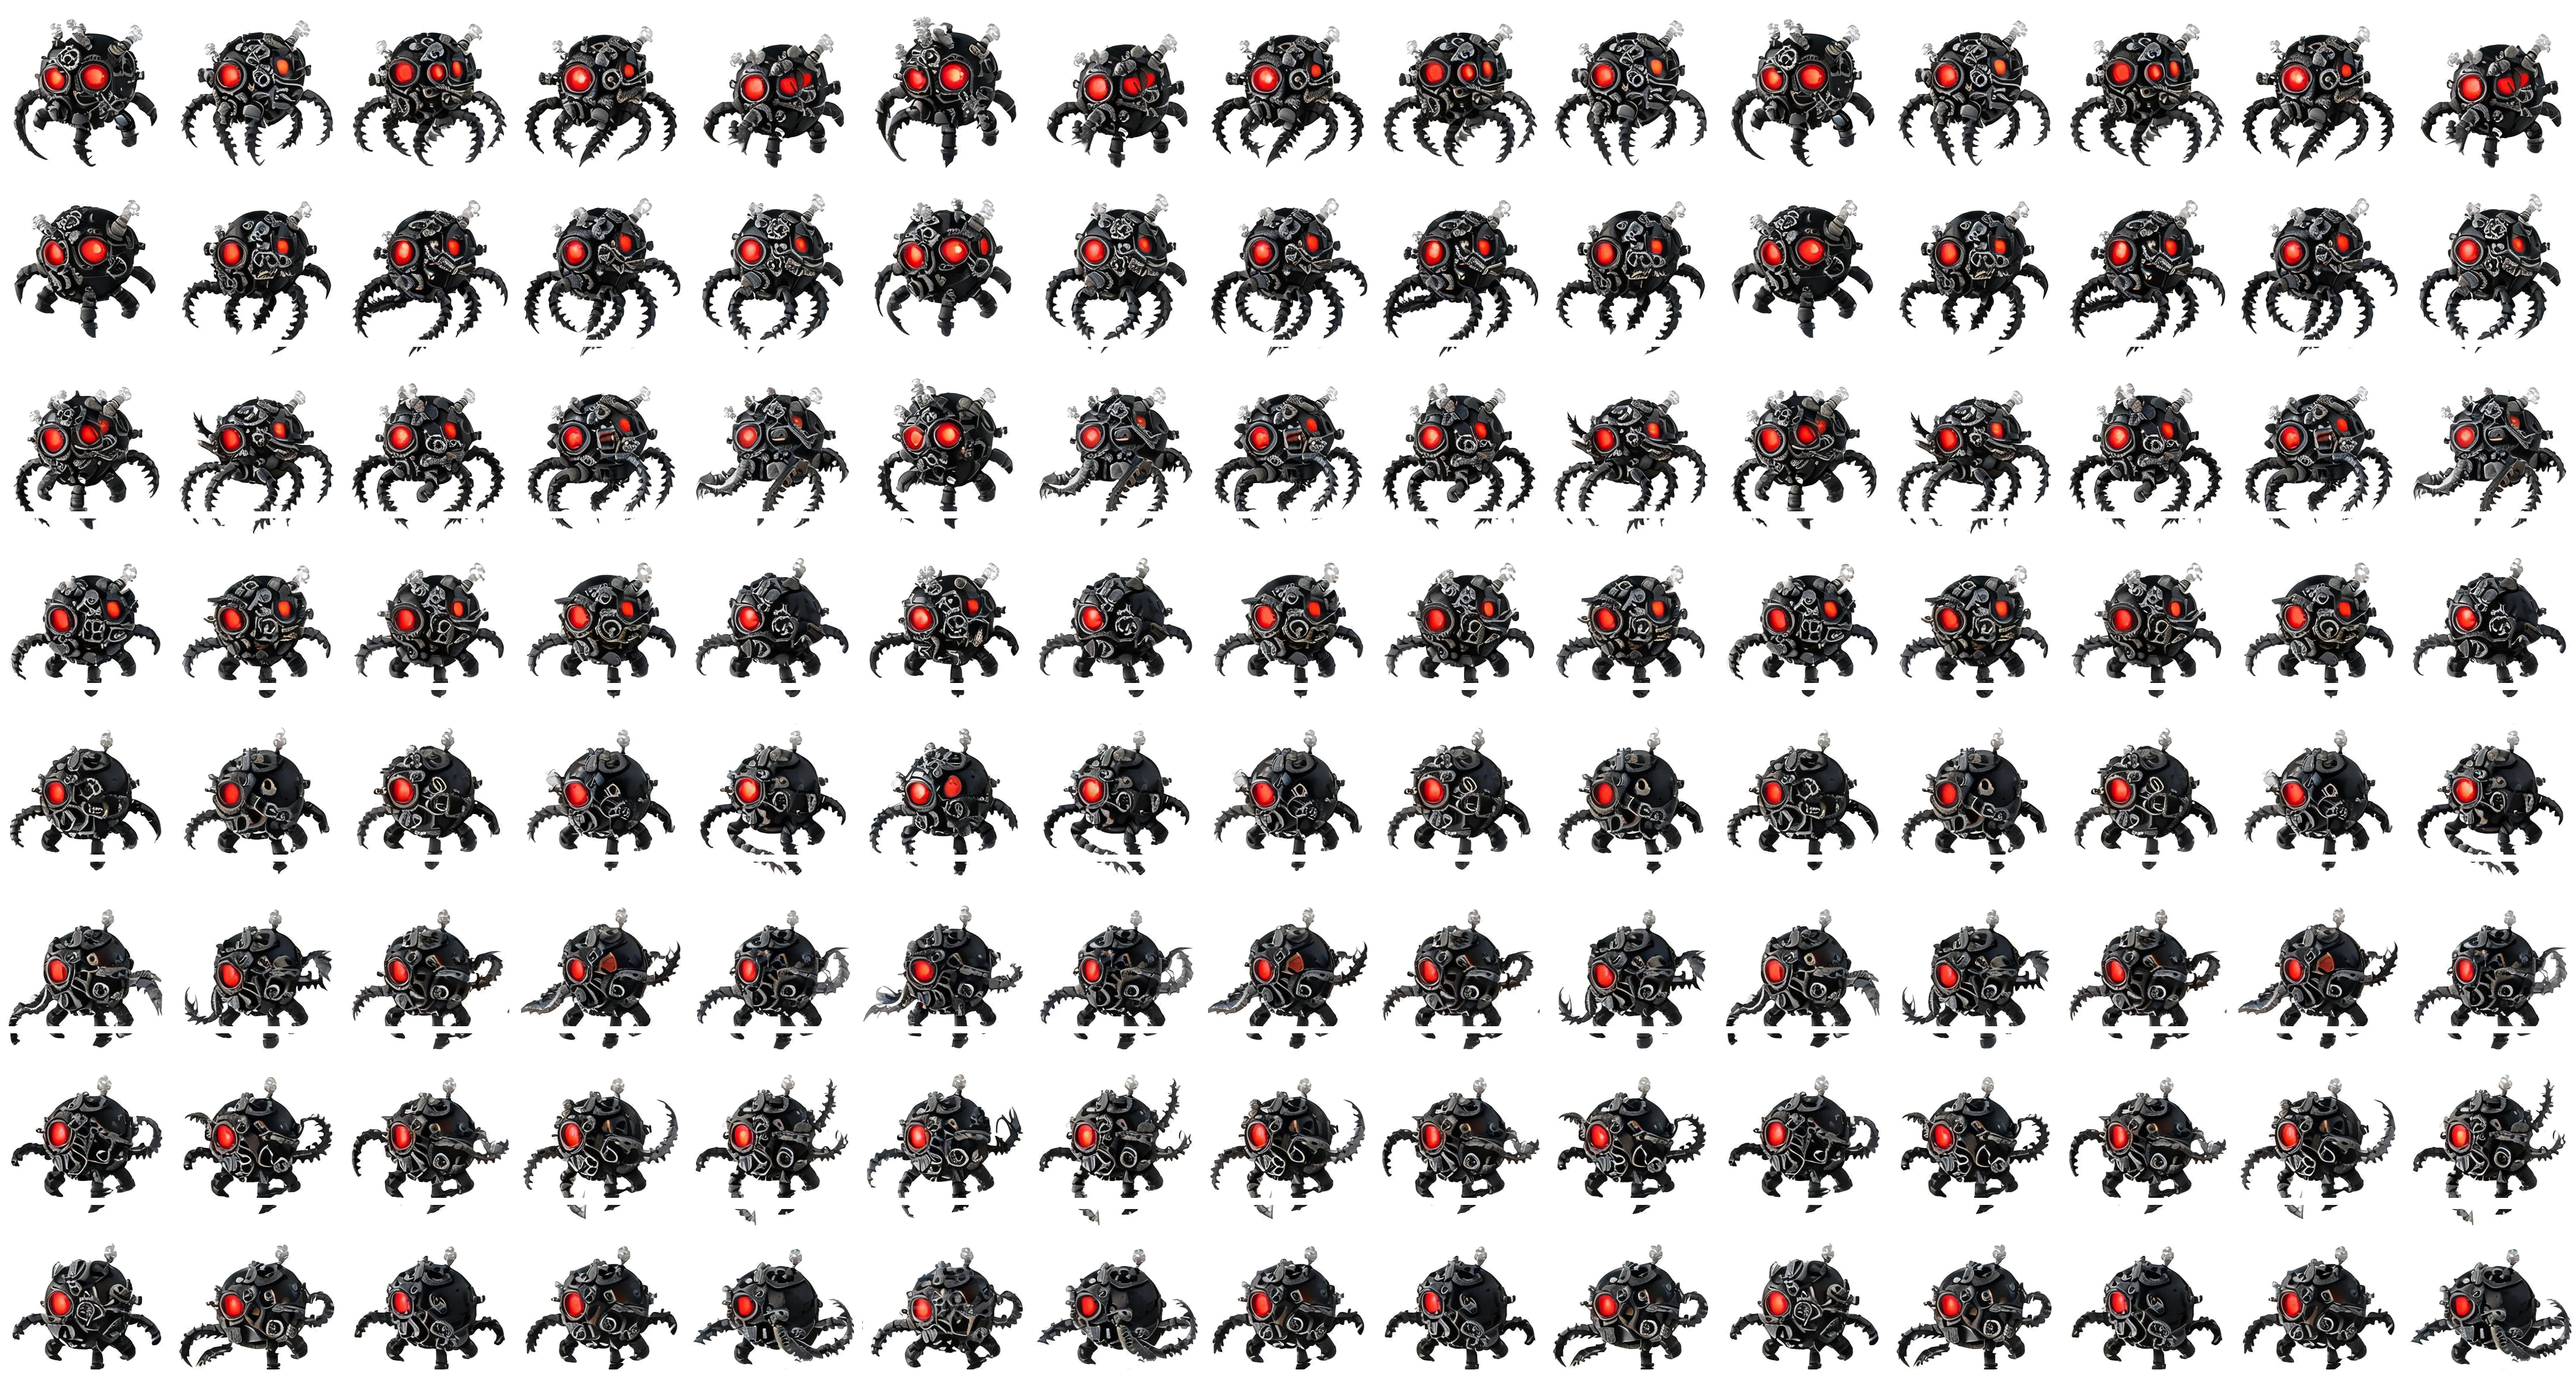
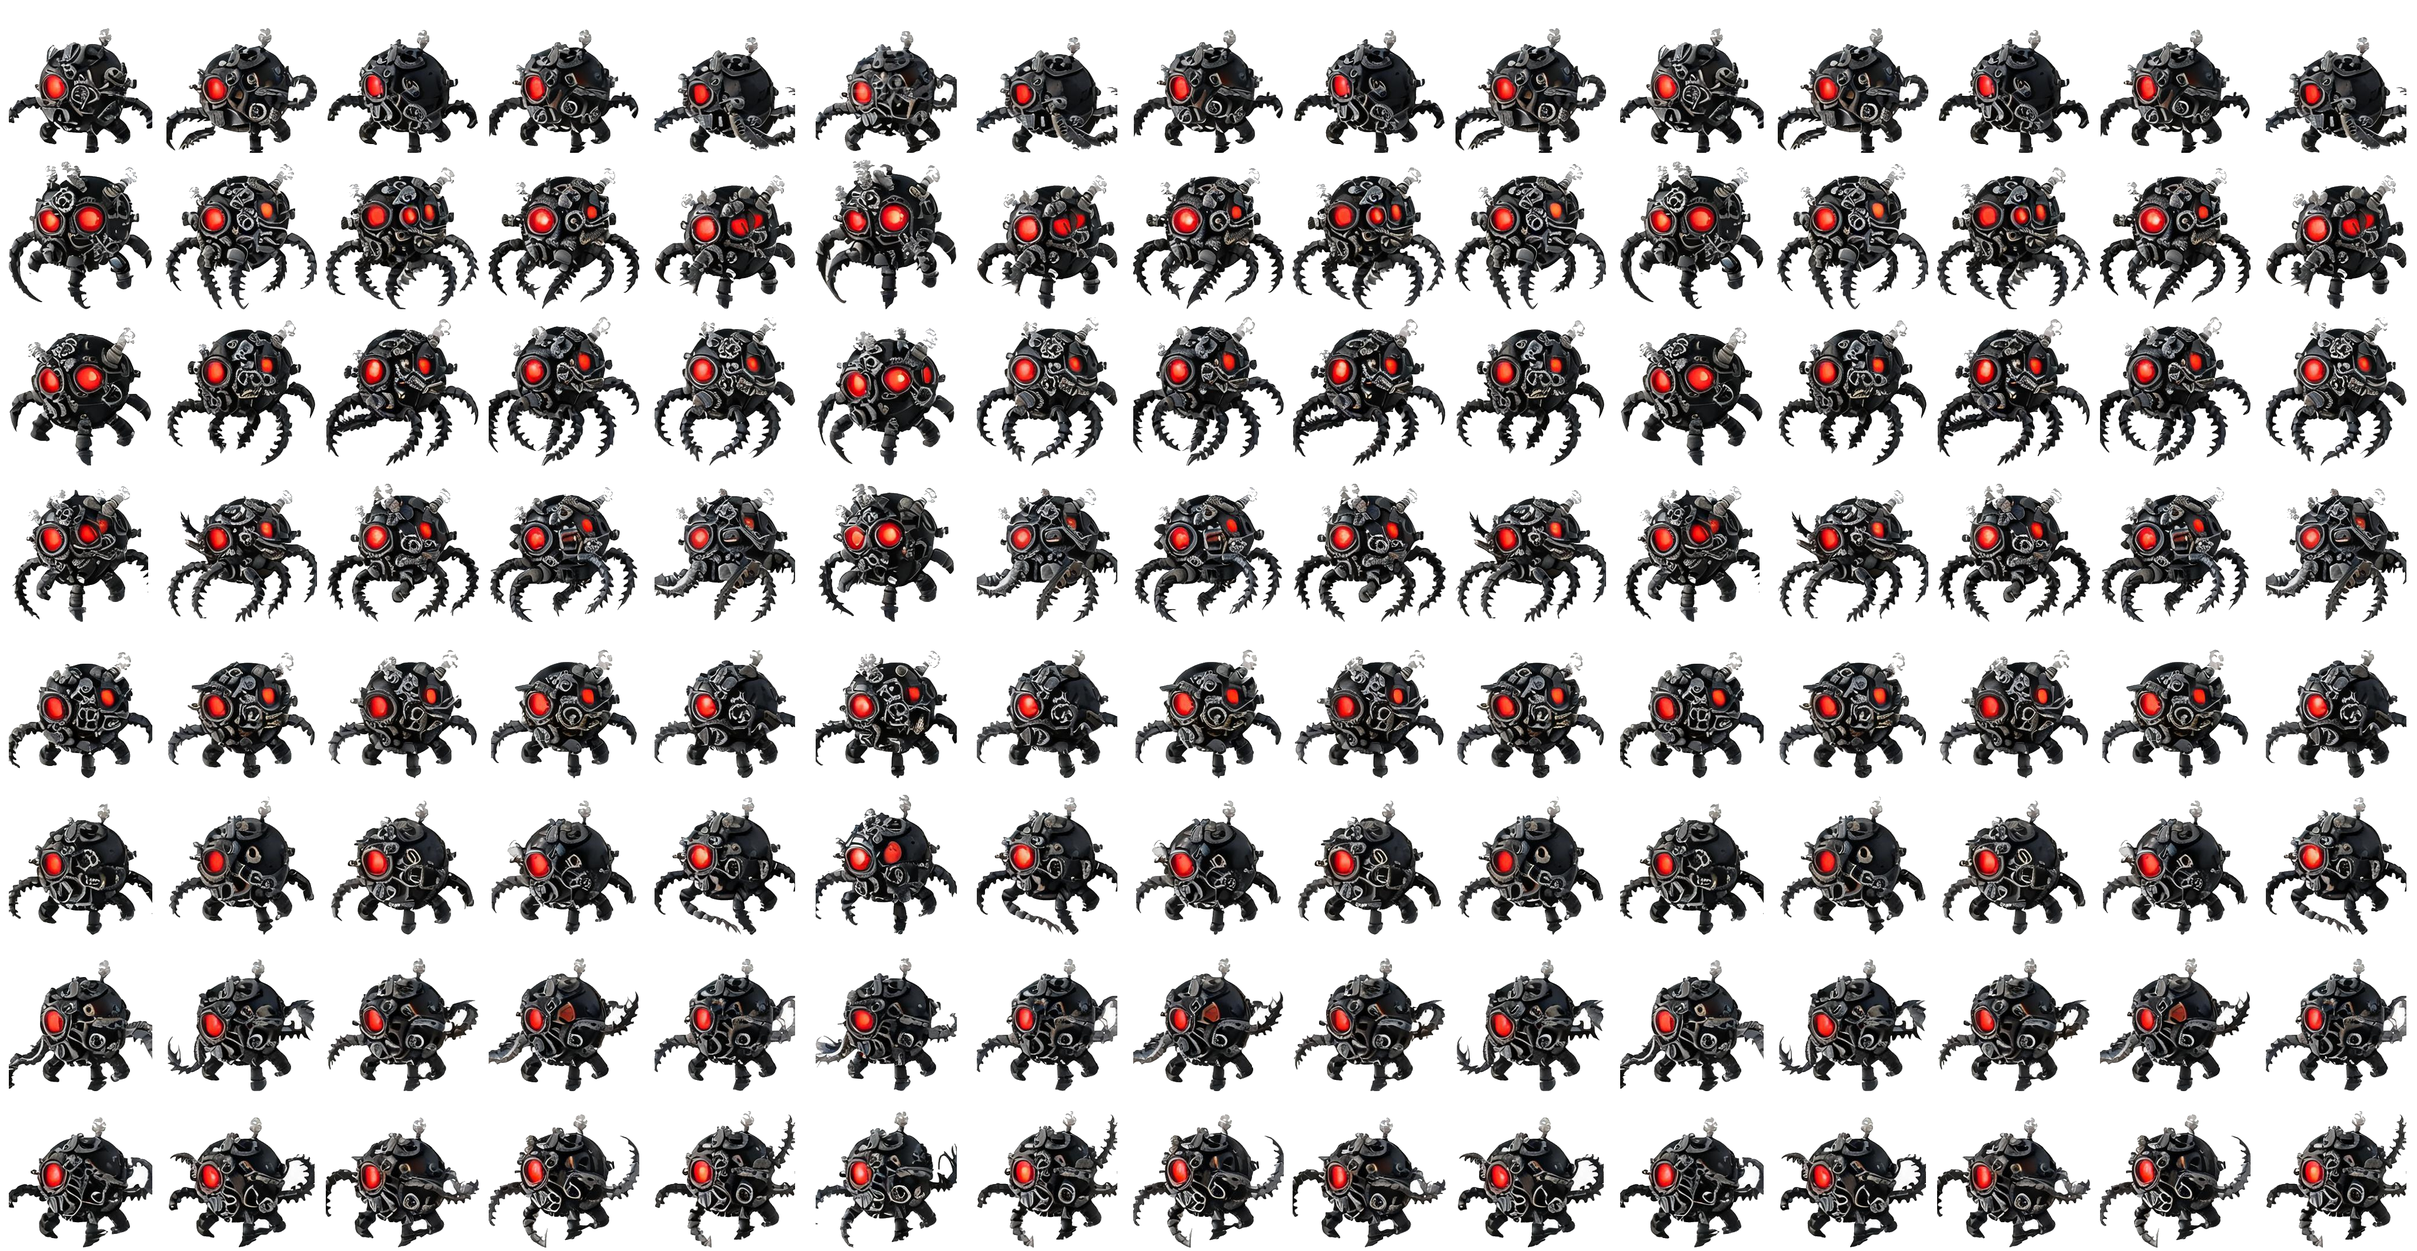
fix: 精灵表重做(投影检测真实边界+连通域抠图+方向映射+镜像补全8方向)
- 源图角色超出280px单元格导致裁切丢失,改用垂直/水平投影检测真实行列边界
- player只有6方向,通过镜像LEFT->RIGHT/DOWN-LEFT->DOWN-RIGHT补全8方向
- enemy2行顺序与标准不一致,重新映射到DOWN/DOWN-LEFT/LEFT/UP-LEFT/UP/UP-RIGHT/RIGHT/DOWN-RIGHT
- 白底抠图改用连通域分析(只移除与边界连通的背景),消除白边(37%->0.1%)
- 所有输出单元格验证无触边,角色细节完整无缺失

diff --git a/tools/build_sprites.py b/tools/build_sprites.py
@@ -1,18 +1,14 @@
 #!/usr/bin/env python3
 """
-精灵表后处理脚本 —— 符合行业标准的 8 方向 × 15 帧精灵表生成
+精灵表后处理脚本 v2 —— 自动检测行列边界 + 方向映射 + 镜像补全
 
-输入: assets/*_1.jpg (6 列 × 8 行, 白底 AI 生成图)
-输出: *.png (15 列 × 8 行, 透明背景, 等大单元格, 底部对齐)
+修复问题:
+- 源图角色超出 280px 单元格导致裁切丢失 (改用投影检测真实边界)
+- player 只有 6 方向, 通过镜像补全 8 方向
+- enemy2 行顺序与标准顺序不一致, 重新映射
 
-处理步骤:
-1. 按 6×8 网格切分源图
-2. 抠除白底 -> 透明 (alpha 通道)
-3. 计算所有单元格内容包围盒, 取最大宽高 + 留白作为统一单元格尺寸
-4. 8 个方向各自做 ping-pong 扩展: 6 帧 -> 15 帧
-   序列: 0,1,2,3,4,5,4,3,2,1,0,1,2,3,4  (平滑循环, 无跳变)
-5. 每帧底部对齐 (脚掌在同一水平线), 水平居中
-6. 输出 15×8 的 PNG
+标准 8 方向行顺序 (从上到下):
+  DOWN, DOWN-LEFT, LEFT, UP-LEFT, UP, UP-RIGHT, RIGHT, DOWN-RIGHT
 """
 
 import sys
@@ -20,38 +16,86 @@ from pathlib import Path
 import numpy as np
 from PIL import Image
 
-# 源图网格
-SRC_COLS = 6
-SRC_ROWS = 8
-
-# 输出网格 (15 帧 × 8 方向)
-OUT_COLS = 15
-OUT_ROWS = 8
-
-# ping-pong 序列: 6 帧扩展为 15 帧
+OUT_COLS = 15  # 15 帧
+OUT_ROWS = 8   # 8 方向
 PING_PONG = [0, 1, 2, 3, 4, 5, 4, 3, 2, 1, 0, 1, 2, 3, 4]
 
-# 抠图: 认为接近白色的像素为背景
 BG_THRESHOLD = 240  # RGB 三通道都 >= 240 视为白底
-PADDING = 6         # 统一单元格额外留白 (像素)
+PADDING = 6         # 统一单元格留白
+
+
+def detect_bands(proj: np.ndarray, gap_thresh: int = 20, min_h: int = 50):
+    """从投影数组中检测内容带 (返回 [(start, end), ...])"""
+    bands = []
+    in_fg = False
+    start = 0
+    for i in range(len(proj)):
+        if proj[i] > gap_thresh and not in_fg:
+            in_fg = True
+            start = i
+        elif proj[i] <= gap_thresh and in_fg:
+            in_fg = False
+            if i - start >= min_h:
+                bands.append((start, i))
+    if in_fg and len(proj) - start >= min_h:
+        bands.append((start, len(proj)))
+    return bands
+
+
+def detect_cols(hproj: np.ndarray, gap_thresh: int = 10, min_w: int = 80):
+    """检测列边界, 过滤噪声小段"""
+    segments = detect_bands(hproj, gap_thresh, min_w)
+    return segments
 
 
 def remove_white(cell_rgb: np.ndarray) -> np.ndarray:
-    """白底抠图, 返回 RGBA"""
+    """白底抠图 -> RGBA
+    使用连通域分析从边界出发, 只移除与边界连通的背景区域,
+    避免误删角色内部的白色/浅色细节 (如眼睛、牙齿、高光)
+    """
+    from scipy.ndimage import label, binary_dilation
     h, w = cell_rgb.shape[:2]
     alpha = np.ones((h, w), dtype=np.uint8) * 255
-    # 三通道都接近白色 -> 透明
-    bg_mask = (cell_rgb[:, :, 0] >= BG_THRESHOLD) & \
-              (cell_rgb[:, :, 1] >= BG_THRESHOLD) & \
-              (cell_rgb[:, :, 2] >= BG_THRESHOLD)
+
+    # 潜在背景: 三通道都较亮的像素
+    bg_like = (cell_rgb[:, :, 0] >= 200) & \
+              (cell_rgb[:, :, 1] >= 200) & \
+              (cell_rgb[:, :, 2] >= 200)
+
+    # 连通域标记
+    labeled, n = label(bg_like)
+    # 找出所有与边界接触的连通域 -> 这些是背景
+    border_labels = set()
+    border_labels.update(labeled[0, :])        # 上边
+    border_labels.update(labeled[-1, :])       # 下边
+    border_labels.update(labeled[:, 0])        # 左边
+    border_labels.update(labeled[:, -1])       # 右边
+    border_labels.discard(0)  # 0 是非背景
+
+    bg_mask = np.isin(labeled, list(border_labels))
     alpha[bg_mask] = 0
-    # 边缘半透明羽化, 避免锯齿
-    rgba = np.dstack([cell_rgb, alpha])
-    return rgba
+
+    # 边缘羽化: 对紧邻透明区的不透明像素, 按亮度降低 alpha
+    transparent = alpha == 0
+    dilated = binary_dilation(transparent, iterations=1)
+    edge_mask = dilated & ~transparent
+
+    if edge_mask.any():
+        ys, xs = np.where(edge_mask)
+        brightness = (cell_rgb[ys, xs, 0].astype(np.float32) +
+                      cell_rgb[ys, xs, 1].astype(np.float32) +
+                      cell_rgb[ys, xs, 2].astype(np.float32)) / 3.0
+        # 越接近白色, alpha 越低 (羽化过渡)
+        bright_mask = brightness >= 200
+        if bright_mask.any():
+            t = (brightness[bright_mask] - 200) / 55.0  # 200->0, 255->1
+            alpha_vals = np.maximum(0, (255 * (1 - t * 0.7)).astype(np.uint8))
+            alpha[ys[bright_mask], xs[bright_mask]] = alpha_vals
+
+    return np.dstack([cell_rgb, alpha])
 
 
 def content_bbox(rgba: np.ndarray):
-    """返回非透明区域的包围盒 (x0,y0,x1,y1) 或 None"""
     alpha = rgba[:, :, 3]
     ys, xs = np.where(alpha > 0)
     if len(xs) == 0:
@@ -59,98 +103,177 @@ def content_bbox(rgba: np.ndarray):
     return int(xs.min()), int(ys.min()), int(xs.max()) + 1, int(ys.max()) + 1
 
 
-def process(src_path: Path, out_path: Path):
+def paste_alpha(dst: np.ndarray, src: np.ndarray, x: int, y: int):
+    """按 alpha 混合粘贴 src 到 dst 的 (x,y)"""
+    sh, sw = src.shape[:2]
+    dh, dw = dst.shape[:2]
+    if x < 0 or y < 0 or x + sw > dw or y + sh > dh:
+        return
+    dst_slice = dst[y:y + sh, x:x + sw]
+    src_a = src[:, :, 3:4].astype(np.float32) / 255.0
+    new_rgb = (src[:, :, :3].astype(np.float32) * src_a +
+               dst_slice[:, :, :3].astype(np.float32) * (1 - src_a))
+    dst_slice[:, :, :3] = new_rgb.astype(np.uint8)
+    dst_slice[:, :, 3] = np.maximum(dst_slice[:, :, 3], src[:, :, 3])
+
+
+def process(src_path: Path, out_path: Path, dir_map: list, mirror_map: dict = None):
+    """
+    dir_map: 长度为 OUT_ROWS 的列表, dir_map[out_row] = src_row_index
+             表示输出第 out_row 行使用源图第 src_row 行的内容
+    mirror_map: {out_row: True} 表示该行需要水平镜像
+    """
     print(f"[处理] {src_path.name}")
     src = Image.open(src_path).convert("RGB")
-    W, H = src.size
-    cw, ch = W // SRC_COLS, H // SRC_ROWS
-    assert W % SRC_COLS == 0 and H % SRC_ROWS == 0, \
-        f"源图尺寸 {W}x{H} 不能被 {SRC_COLS}x{SRC_ROWS} 整除"
-
     arr = np.array(src)
+    H, W = arr.shape[:2]
 
-    # 1. 切分 + 抠图
-    cells = []  # [row][col] = RGBA ndarray
+    bg = (arr[:, :, 0] >= BG_THRESHOLD) & (arr[:, :, 1] >= BG_THRESHOLD) & (arr[:, :, 2] >= BG_THRESHOLD)
+    fg = ~bg
+
+    # 1. 检测行边界 (垂直投影)
+    vproj = fg.sum(axis=1)
+    row_bands = detect_bands(vproj)
+    print(f"  检测到 {len(row_bands)} 行: {[(s, e) for s, e in row_bands]}")
+
+    # 2. 检测列边界 (使用内容最多的那一行的水平投影, 避免多行列合并)
+    best_row_idx = 0
+    best_count = 0
+    for ri, (rys, rye) in enumerate(row_bands):
+        cnt = fg[rys:rye, :].sum()
+        if cnt > best_count:
+            best_count = cnt
+            best_row_idx = ri
+    rys, rye = row_bands[best_row_idx]
+    hproj = fg[rys:rye, :].sum(axis=0)
+    col_bands = detect_cols(hproj)
+    if len(col_bands) < 4:
+        # 退而求其次: 用所有行的水平投影
+        hproj = fg.sum(axis=0)
+        col_bands = detect_cols(hproj)
+    print(f"  检测到 {len(col_bands)} 列: {[(s, e) for s, e in col_bands]}")
+
+    n_src_rows = len(row_bands)
+    n_src_cols = len(col_bands)
+
+    # 3. 提取所有单元格 + 抠图 + bbox
+    cells = []  # cells[src_row][src_col] = rgba
     bboxes = []
-    for r in range(SRC_ROWS):
+    for ri, (rys, rye) in enumerate(row_bands):
         row_cells = []
-        for c in range(SRC_COLS):
-            cell_rgb = arr[r * ch:(r + 1) * ch, c * cw:(c + 1) * cw]
+        for ci, (cxs, cxe) in enumerate(col_bands):
+            cell_rgb = arr[rys:rye, cxs:cxe]
             rgba = remove_white(cell_rgb)
             row_cells.append(rgba)
-            bbox = content_bbox(rgba)
-            bboxes.append(bbox)
+            bboxes.append(content_bbox(rgba))
         cells.append(row_cells)
 
-    # 2. 计算统一单元格尺寸
+    # 4. 计算统一单元格尺寸 (取所有内容 bbox 的最大宽高 + padding)
     cw_list = [b[2] - b[0] for b in bboxes if b]
     ch_list = [b[3] - b[1] for b in bboxes if b]
     max_cw = max(cw_list) + PADDING * 2
     max_ch = max(ch_list) + PADDING * 2
-    # 取偶数, 避免缩放亚像素
     max_cw = (max_cw + 1) // 2 * 2
     max_ch = (max_ch + 1) // 2 * 2
-    print(f"  源单元格 {cw}x{ch} -> 统一单元格 {max_cw}x{max_ch} (内容最大 {max(cw_list)}x{max(ch_list)})")
+    print(f"  统一单元格: {max_cw}x{max_ch} (内容最大 {max(cw_list)}x{max(ch_list)})")
 
-    # 3. 构建输出图
+    # 5. 构建输出图
     out_w = max_cw * OUT_COLS
     out_h = max_ch * OUT_ROWS
     out = Image.new("RGBA", (out_w, out_h), (0, 0, 0, 0))
     out_arr = np.array(out)
 
-    for r in range(OUT_ROWS):
-        src_row = r % SRC_ROWS
+    for out_row in range(OUT_ROWS):
+        src_row = dir_map[out_row]
+        need_mirror = mirror_map and mirror_map.get(out_row, False)
+
         for oc in range(OUT_COLS):
             sc = PING_PONG[oc]
+            if sc >= n_src_cols:
+                continue
             rgba = cells[src_row][sc]
-            bbox = bboxes[src_row * SRC_COLS + sc]
+            bbox = bboxes[src_row * n_src_cols + sc]
             if bbox is None:
                 continue
+
             x0, y0, x1, y1 = bbox
             content = rgba[y0:y1, x0:x1]
+
+            # 水平镜像
+            if need_mirror:
+                content = np.flip(content, axis=1).copy()
+
             ch_c = y1 - y0
             cw_c = x1 - x0
 
-            # 底部对齐 (脚掌在单元格底部), 水平居中
+            # 底部对齐 + 水平居中
             dest_x0 = (max_cw - cw_c) // 2
-            dest_y0 = max_ch - PADDING - ch_c  # 底部留 PADDING
-
+            dest_y0 = max_ch - PADDING - ch_c
             if dest_x0 < 0:
                 dest_x0 = 0
             if dest_y0 < 0:
                 dest_y0 = 0
 
             ox = oc * max_cw
-            oy = r * max_ch
-            # 按 alpha 混合粘贴
-            dst_slice = out_arr[oy + dest_y0:oy + dest_y0 + ch_c,
-                                ox + dest_x0:ox + dest_x0 + cw_c]
-            src_a = content[:, :, 3:4].astype(np.float32) / 255.0
-            dst_rgb = dst_slice[:, :, :3].astype(np.float32)
-            new_rgb = (content[:, :, :3].astype(np.float32) * src_a +
-                       dst_rgb * (1 - src_a))
-            dst_slice[:, :, :3] = new_rgb.astype(np.uint8)
-            dst_slice[:, :, 3] = np.maximum(dst_slice[:, :, 3], content[:, :, 3])
+            oy = out_row * max_ch
+            paste_alpha(out_arr, content, ox + dest_x0, oy + dest_y0)
 
     out_img = Image.fromarray(out_arr, "RGBA")
     out_img.save(out_path, "PNG")
-    print(f"  输出 {out_path.name}: {out_w}x{out_h} ({OUT_COLS}x{OUT_ROWS}, cell {max_cw}x{max_ch})")
+    print(f"  输出 {out_path.name}: {out_w}x{out_h} (cell {max_cw}x{max_ch})")
+
+    # 6. 验证: 检查输出单元格是否触边
+    print("  验证裁剪边界:")
+    touch_any = False
+    for r in range(OUT_ROWS):
+        for c in range(OUT_COLS):
+            cell = out_arr[r * max_ch:(r + 1) * max_ch, c * max_cw:(c + 1) * max_cw]
+            bbox = content_bbox(cell)
+            if bbox is None:
+                continue
+            x0, y0, x1, y1 = bbox
+            touches = []
+            if x0 <= 1: touches.append('L')
+            if x1 >= max_cw - 2: touches.append('R')
+            if y0 <= 1: touches.append('T')
+            if y1 >= max_ch - 2: touches.append('B')
+            if touches:
+                touch_any = True
+                print(f"    r{r}c{c}: 触边 {''.join(touches)} bbox=({x0},{y0},{x1},{y1})")
+    if not touch_any:
+        print("    全部 OK, 无触边")
 
 
 def main():
     assets = Path("assets")
+
+    # Player walk: 6 rows -> 8 directions (mirror LEFT->RIGHT, DOWN-LEFT->DOWN-RIGHT)
+    # Source rows: 0=DOWN, 1=DOWN-LEFT, 2=LEFT, 3=UP-LEFT, 4=UP, 5=UP-RIGHT
+    # Output rows: 0=DOWN, 1=DOWN-LEFT, 2=LEFT, 3=UP-LEFT, 4=UP, 5=UP-RIGHT, 6=RIGHT, 7=DOWN-RIGHT
+    player_dir_map = [0, 1, 2, 3, 4, 5, 2, 1]
+    player_mirror = {6: True, 7: True}  # RIGHT=mirror(LEFT), DOWN-RIGHT=mirror(DOWN-LEFT)
+
+    # Enemy1 (hound): 8 rows already in correct order
+    e1_dir_map = [0, 1, 2, 3, 4, 5, 6, 7]
+
+    # Enemy2 (beast): rows are [DOWN-LEFT, LEFT, UP-LEFT, UP, UP-RIGHT, RIGHT, DOWN-RIGHT, DOWN]
+    # Need to map to standard order
+    e2_dir_map = [7, 0, 1, 2, 3, 4, 5, 6]
+
     targets = [
-        ("player_walk_1.jpg", "player_walk.png"),
-        ("player_action_1.jpg", "player_action.png"),
-        ("enemy1_hound_1.jpg", "enemy1.png"),
-        ("enemy2_beast_1.jpg", "enemy2.png"),
+        ("player_walk_1.jpg", "player_walk.png", player_dir_map, player_mirror),
+        ("player_action_1.jpg", "player_action.png", player_dir_map, player_mirror),
+        ("enemy1_hound_1.jpg", "enemy1.png", e1_dir_map, None),
+        ("enemy2_beast_1.jpg", "enemy2.png", e2_dir_map, None),
     ]
-    for src_name, out_name in targets:
+
+    for src_name, out_name, dir_map, mirror in targets:
         src = assets / src_name
         if not src.exists():
             print(f"[跳过] 缺少 {src}")
             continue
-        process(src, Path(out_name))
+        process(src, Path(out_name), dir_map, mirror)
+
     print("完成")
 
 
